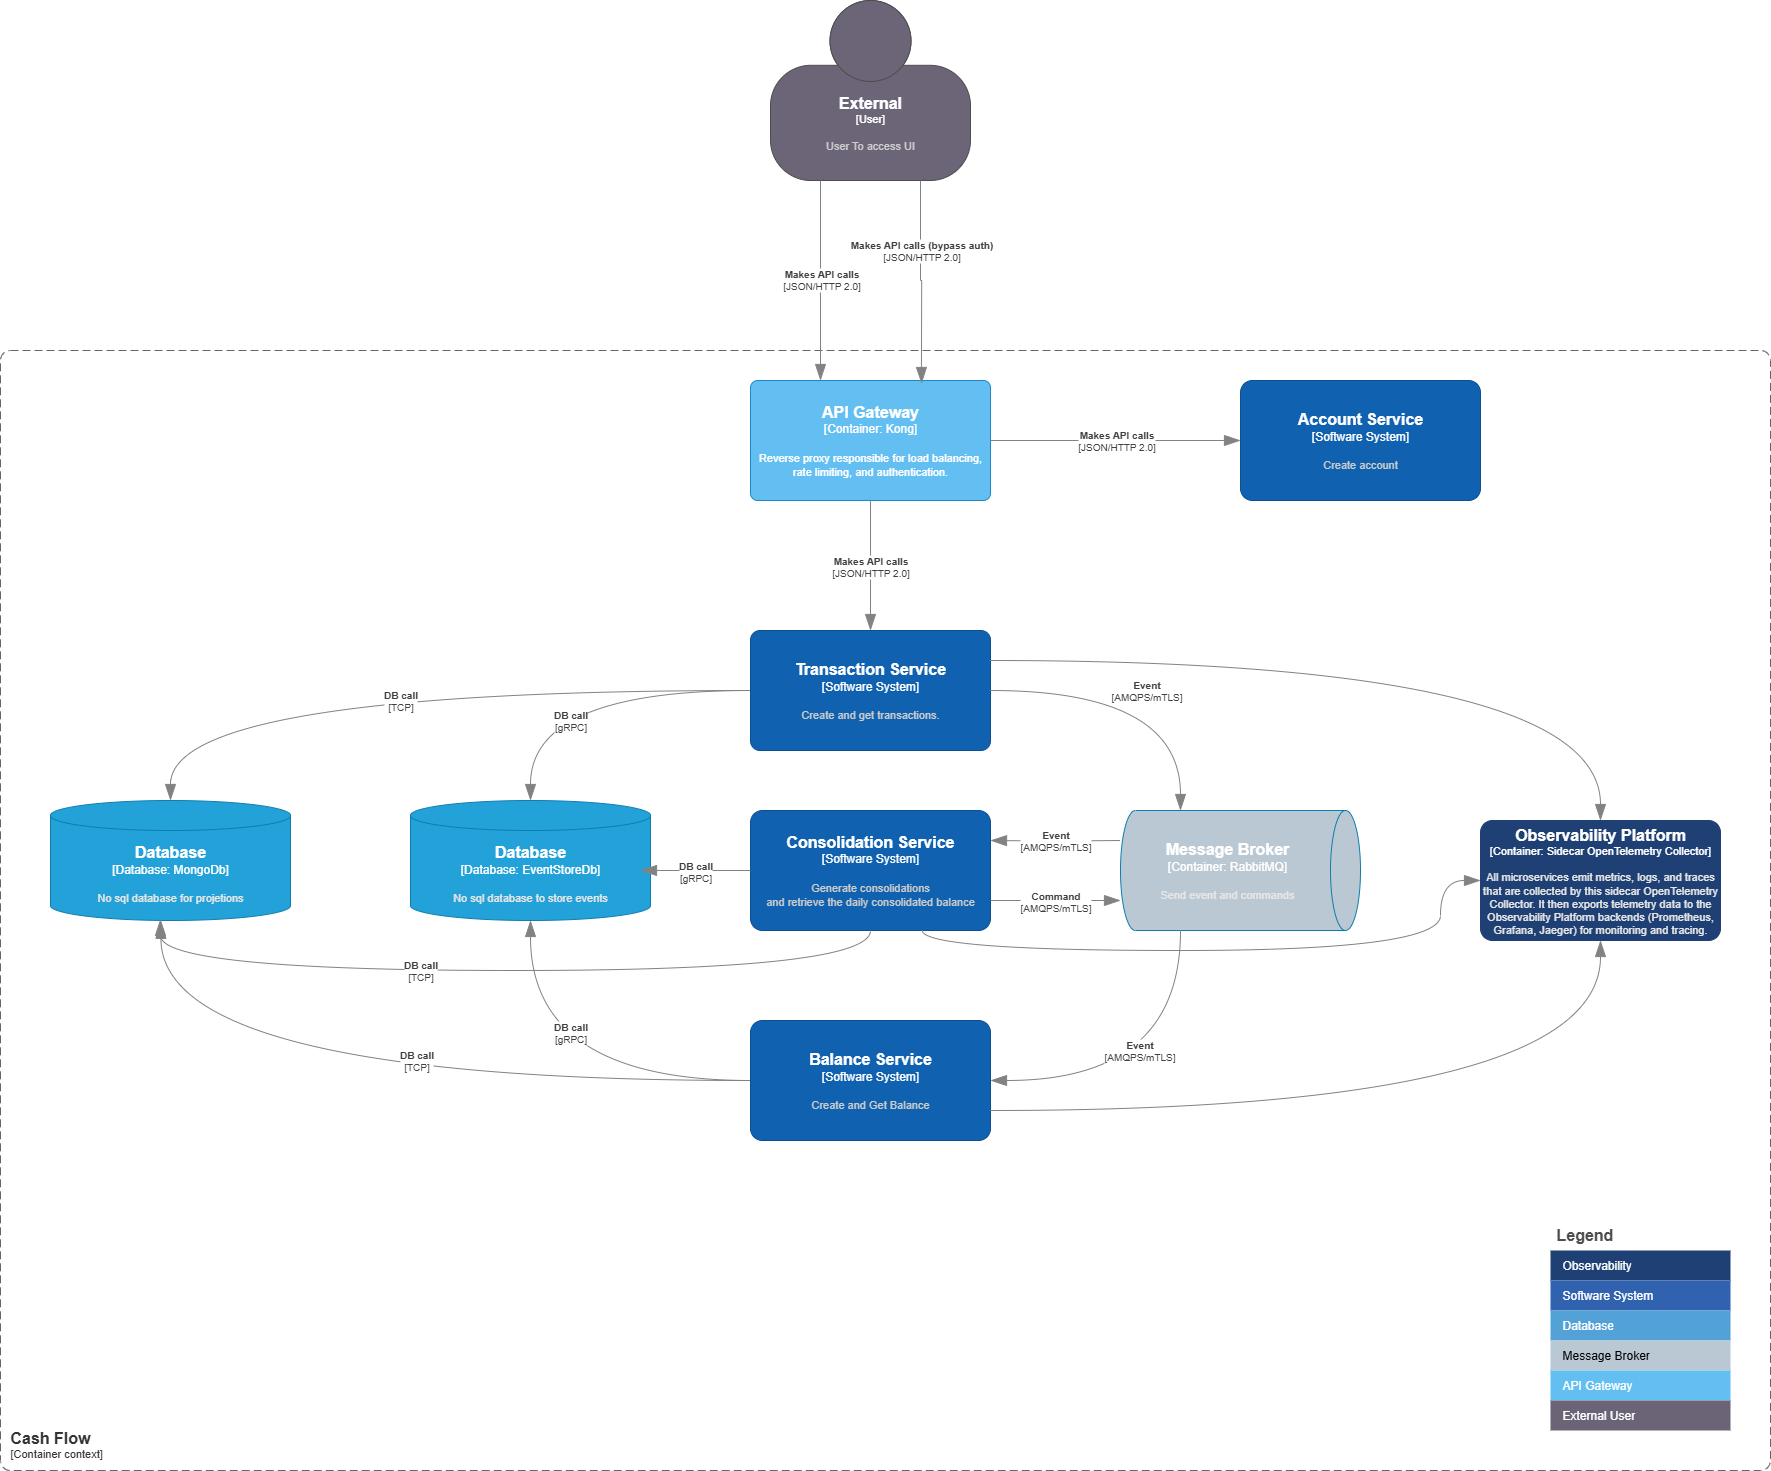
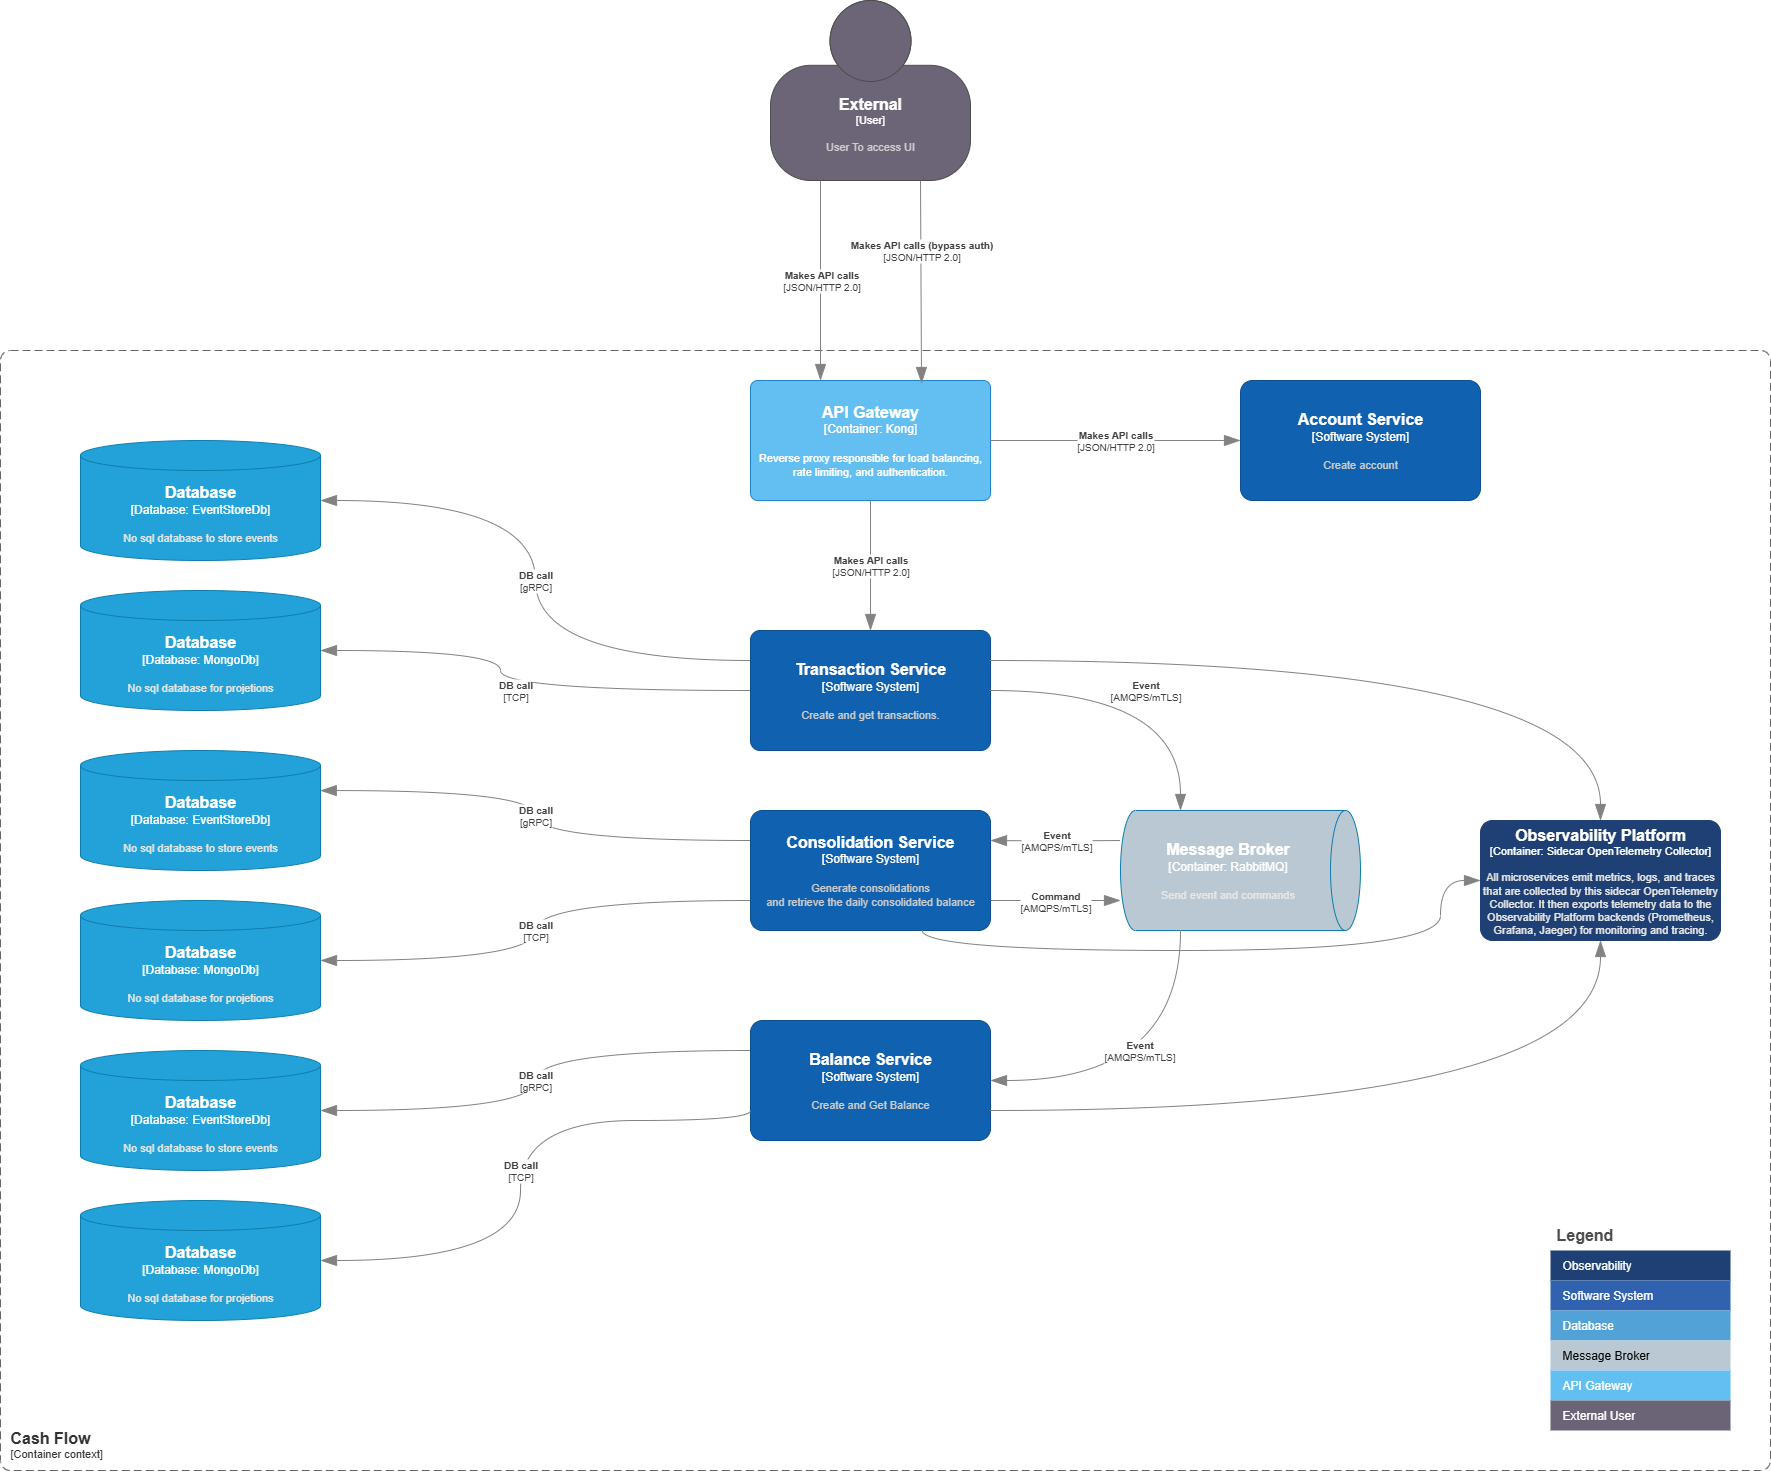
FEAT: Add cors validation; DOC: Resolve container context

diff --git a/AccountService/Program.cs b/AccountService/Program.cs
@@ -30,8 +30,23 @@ builder.Services.AddScoped(sp =>
     return db.GetCollection<UserProjection>(mongoDbOptions.CollectionName);
 });
 
+var allowedOrigin = "http://localhost:3000";
+
+
+builder.Services.AddCors(options =>
+{
+    options.AddPolicy("AllowSpecificOrigin", policy =>
+    {
+        policy.WithOrigins(allowedOrigin) // Only allow this URL
+              .AllowAnyHeader()
+              .AllowAnyMethod();
+    });
+});
+
 
 var app = builder.Build();
+
+app.UseCors("AllowSpecificOrigin");
 
 // Configure the HTTP request pipeline.
 if (app.Environment.IsDevelopment())
